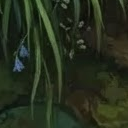
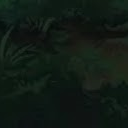
TILEMAP PIVOT take 2 (Bude green light Sept 25, compile-fixed re-land of the reverted 0060d22): LilFootsTilemapSkin with the missing 'using UnityEngine.Tilemaps' (the take-1 compile killer), full green-canon lf_* tile set (grass caps + dirt fill + lip variants from the BudE world reference), r1_dept

diff --git a/unity/Assets/Editor/LilFootsTilemapSkin.cs b/unity/Assets/Editor/LilFootsTilemapSkin.cs
@@ -1,0 +1,147 @@
+#if UNITY_EDITOR
+using UnityEngine;
+using UnityEditor;
+using UnityEngine.Tilemaps;
+using System.Collections.Generic;
+using System.IO;
+
+namespace LilFoots {
+/// <summary>
+/// UNITY TILEMAP SKIN (BudE, Sept 25 2026: "build the geometry side in Unity and skin it in
+/// Unity"). The terrain where the player runs is a REAL Unity Tilemap, not a stretched
+/// painting: each audited ground collider gets its footprint painted as 1u tiles - a
+/// grass-cap row (green canon: BudE world reference - sage moss caps, deep forest darks)
+/// plus dirt-fill rows down to bedrock, with lip tiles on exposed side columns.
+///
+/// LAW: the tilemap is the SKIN ONLY. Physics stays on the audited BoxCollider2D Plat
+/// objects - zero gameplay drift, the geometry he judged GREEN is exactly what ships.
+/// Tile cells sit at the 1u Unity grid, tilemap offset y=+0.2 so the tile top edge lands
+/// exactly on the 6.2u ground surface; the 0.2u plateau difference is absorbed by the
+/// grass-edge fringe band (ArtPass binds it above every walking line).
+/// 1 tile = 1 Unity unit: the layout stays editable/reskinnable with the Unity Tile
+/// Palette - drop hand-painted art over the same lf_*.png files and the world reskins.
+/// </summary>
+public static class LilFootsTilemapSkin {
+    static Tilemap _tm;
+    static TileBase[] _caps, _capsL, _capsR, _dirts, _dirtsL, _dirtsR;
+    static bool _ready;
+
+    public static bool Ready() { return _ready || LoadTiles(); }
+
+    static Tilemap EnsureTilemap(Transform root) {
+        if (_tm != null) return _tm;
+        var gridGo = new GameObject("TerrainGrid");
+        gridGo.transform.SetParent(root, false);
+        gridGo.AddComponent<Grid>();
+        var tmGo = new GameObject("TerrainTiles");
+        tmGo.transform.SetParent(gridGo.transform, false);
+        var tm = tmGo.AddComponent<Tilemap>();
+        var tr = tmGo.AddComponent<TilemapRenderer>();
+        tr.sortingOrder = -2;                          // same plane the old earth bands drew on
+        tr.mode = TilemapRenderer.Mode.Chunk;
+        tmGo.transform.localPosition = new Vector3(0f, 0.2f, 0f);  // tile top edge = 6.2 surface
+        _tm = tm;
+        return tm;
+    }
+
+    /// <summary>Persisted Tile asset (sprite sub-asset) so scenes reload clean across
+    /// sessions and shipped builds. PPU = texture width: a square lf_*.png = one 1u tile.</summary>
+    static TileBase MakeTile(string name, string texPath) {
+        var assetPath = "Assets/Art/Tiles/Generated/tile_" + name + ".asset";
+        var existing = AssetDatabase.LoadAssetAtPath<UnityEngine.Tilemaps.Tile>(assetPath);
+        if (existing != null) return existing;
+        var tex = AssetDatabase.LoadAssetAtPath<Texture2D>(texPath);
+        if (tex == null) return null;
+        var sprite = Sprite.Create(tex, new Rect(0, 0, tex.width, tex.height),
+                                   new Vector2(0.5f, 0.5f), tex.width, 0, SpriteMeshType.FullRect);
+        sprite.name = name;
+        var tile = ScriptableObject.CreateInstance<UnityEngine.Tilemaps.Tile>();
+        tile.sprite = sprite;
+        tile.name = name;
+        Directory.CreateDirectory("Assets/Art/Tiles/Generated");
+        AssetDatabase.CreateAsset(tile, assetPath);
+        AssetDatabase.AddObjectToAsset(sprite, assetPath);
+        AssetDatabase.SaveAssets();
+        return tile;
+    }
+
+    static bool LoadTiles() {
+        string d = "Assets/Art/Tiles/";
+        _caps   = LoadSet(d, "lf_grass_a", "lf_grass_b", "lf_grass_c", "lf_grass_d");
+        _capsL  = LoadSet(d, "lf_grass_l");
+        _capsR  = LoadSet(d, "lf_grass_r");
+        _dirts  = LoadSet(d, "lf_dirt_a", "lf_dirt_b", "lf_dirt_c", "lf_dirt_d");
+        _dirtsL = LoadSet(d, "lf_dirt_l");
+        _dirtsR = LoadSet(d, "lf_dirt_r");
+        _ready = _caps.Length > 0 && _dirts.Length > 0;
+        if (_ready) Debug.Log("[TilemapSkin] green canon tiles ready: " + _caps.Length + " caps + "
+                              + _dirts.Length + " dirt (+lip variants: " + (_capsL.Length + _capsR.Length + _dirtsL.Length + _dirtsR.Length) + ")");
+        else Debug.LogWarning("[TilemapSkin] lf_* tile art missing - falling back to band skins");
+        return _ready;
+    }
+
+    static TileBase[] LoadSet(string d, params string[] names) {
+        var list = new List<TileBase>();
+        foreach (var n in names) { var t = MakeTile(n, d + n + ".png"); if (t != null) list.Add(t); }
+        return list.ToArray();
+    }
+
+    static int Hash(int c, int r) { return ((c * 73856093) ^ (r * 19349663)) & 0x7fffffff; }
+
+    /// <summary>Pre-pass: the union of every ground's tile cells, so lips only paint on
+    /// TRULY exposed sides (adjacent grounds don't get seam lips where they meet).</summary>
+    static HashSet<long> CollectCells(System.Collections.Generic.IEnumerable<GameObject> grounds) {
+        var cells = new HashSet<long>();
+        foreach (var plat in grounds) {
+            var bc = plat.GetComponent<BoxCollider2D>();
+            if (bc == null || bc.size.y < 2f) continue;             // hops wear slab art, not tiles
+            float top = plat.transform.position.y + bc.size.y / 2f;
+            float x0 = plat.transform.position.x - bc.size.x / 2f;
+            float x1 = plat.transform.position.x + bc.size.x / 2f;
+            int c0 = Mathf.FloorToInt(x0 + 0.001f);
+            int c1 = Mathf.CeilToInt(x1 - 0.001f) - 1;
+            int rTop = Mathf.RoundToInt(top - 1.2f);                 // tile top edge at the surface
+            for (int c = c0; c <= c1; c++)
+                for (int r = rTop; r >= -6; r--)                     // bedrock: solid to below frame
+                    cells.Add(((long)c << 32) ^ (uint)r);
+        }
+        return cells;
+    }
+
+    /// <summary>Paint every audited ground collider's footprint as tiles (skin only).</summary>
+    public static void PaintGrounds(GameObject mapRoot) {
+        if (!Ready()) return;
+        var grounds = new List<GameObject>();
+        foreach (Transform child in mapRoot.transform) {
+            var bc = child.GetComponent<BoxCollider2D>();
+            if (bc != null && bc.size.y >= 2f) grounds.Add(child.gameObject);
+        }
+        var cells = CollectCells(grounds);
+        bool Has(int c, int r) => cells.Contains(((long)c << 32) ^ (uint)r);
+
+        var tm = EnsureTilemap(mapRoot.transform);
+        int painted = 0, caps = 0, lips = 0;
+        foreach (var key in cells) {
+            int c = (int)(key >> 32); int r = (int)(key & 0xffffffffL);
+            bool top = !Has(c, r + 1);
+            bool openL = !Has(c - 1, r);
+            bool openR = !Has(c + 1, r);
+            TileBase t;
+            if (top) {
+                if (openL && _capsL.Length > 0) { t = _capsL[0]; lips++; }
+                else if (openR && _capsR.Length > 0) { t = _capsR[0]; lips++; }
+                else { t = _caps[Hash(c, r) % _caps.Length]; caps++; }
+            } else {
+                if (openL && _dirtsL.Length > 0) t = _dirtsL[0];
+                else if (openR && _dirtsR.Length > 0) t = _dirtsR[0];
+                else t = _dirts[Hash(c, r) % _dirts.Length];
+            }
+            tm.SetTile(new Vector3Int(c, r, 0), t);
+            painted++;
+        }
+        tm.CompressBounds();
+        Debug.Log("[TilemapSkin] painted " + painted + " tiles (" + caps + " grass caps, " + lips + " exposed lips) across " + grounds.Count + " grounds");
+    }
+}
+}
+#endif

diff --git a/unity/Assets/Editor/LilFootsArtPass.cs b/unity/Assets/Editor/LilFootsArtPass.cs
@@ -160,10 +160,18 @@ namespace LilFoots.EditorTools
             bool isLong = (mapId == "r1_long");   // FULL-LENGTH 128u variant (Sept 21 verdict: length + depth)
             bool isEpic = (mapId == "r1_epic");   // 256u FULL JOURNEY (Sept 21 ~4:40 PM ET: 5-minute map + ground-fix verdict)
             bool isDt = (mapId == "r1_depth_test");   // GEOMETRY-DEPTH TEST map: the 8000x1560 painting IS the world (v12 skin)
+            // [TILEMAP PIVOT Sept 25, take 2 - Bude: "build the geometry side in Unity and skin it
+            // in Unity"]. The one-painting canvas bind is RETIRED for r1_depth_test: the map runs the
+            // STANDARD native stack (real colliders, Unity Tilemap terrain skin via
+            // LilFootsTilemapSkin, bound props/tokens/character) like every other course. LILFOOTS_TILEMAP=0
+            // restores the retired v12 painting bind.
+            bool isTile = isDt && (System.Environment.GetEnvironmentVariable("LILFOOTS_TILEMAP") ?? "1") != "0";
+            if (isTile) isDt = false;
             var camGo = GameObject.Find("MainCamera");
             var cam = camGo != null ? camGo.GetComponent<UnityEngine.Camera>() : null;
             if (cam != null && L(1) && !isFull && !isLong && !isEpic && !isDt) {   // [FULL MAP] the painting is the sky
-                var skySpr = Art("art_sky_new.png");
+                var skySpr = Art(isTile ? "art_sky_tilemap.png" : "art_sky_new.png");   // [GREEN CANON Sept 25] BudE world ref: sage mist sky (tilemap mode)
+                if (skySpr == null) skySpr = Art("art_sky_new.png");
                 if (skySpr != null) {
                     float skyH = 12f;                 // frame is 7.5 tall - generous bleed top and bottom
                     float skyW = 12f;                  // square art, mirrored x2 = 24 wide for ultrawide
@@ -564,7 +572,12 @@ namespace LilFoots.EditorTools
                         continue;                                   // story grounds: band ONLY, no cap/edge tiles
                     }
                 }
-                if (earth != null && L(2)) {
+                // [TILEMAP PIVOT] grounds wear the REAL Unity Tilemap skin (grass-cap row +
+                // dirt fill at 1u cells, green canon) - the stretched band crops retire for
+                // tile-skinned grounds. The grass-edge fringe below still binds above the
+                // walking line, absorbing the 0.2u plateau tile offset organically.
+                bool tiled = (h >= 2f && !isStory);
+                if (earth != null && L(2) && !tiled) {
                     var crop = ArtCrop("art_earth_new.png", w, h, child.position.x - w / 2f);
                     if (crop != null) SpriteGo("Earth", crop, new Vector3(child.position.x, top - h / 2f, 0), w, -2, child);
                 }
@@ -574,7 +587,7 @@ namespace LilFoots.EditorTools
                 // the surface and blade tips taper upward). Both tile world-x phased at natural
                 // scale so the pattern flows continuously across the map.
                 var cap = Art("art_ground_cap.png");
-                if (cap != null && L(2)) {
+                if (cap != null && L(2) && !tiled) {
                     float capH = 0.45f;
                     float cw2 = capH * (cap.bounds.size.x / cap.bounds.size.y);
                     float left = child.position.x - w / 2f;
@@ -603,6 +616,10 @@ namespace LilFoots.EditorTools
                 }
 
             }
+
+            // [TILEMAP PIVOT] paint the real Unity Tilemap terrain once - every ground's
+            // footprint as 1u green-canon tiles (grass caps + dirt fill + exposed lips).
+            if (isTile && LilFootsTilemapSkin.Ready()) LilFootsTilemapSkin.PaintGrounds(map);
 
             // ---- CAM TREES + TRAIL CAMS + HOUNDS + DRONES: PURGED (BudE, Sept 20: 'remove any
             // and delete all old work art skins' + enemy doctrine: v1 gadget/hound enemies retired,
